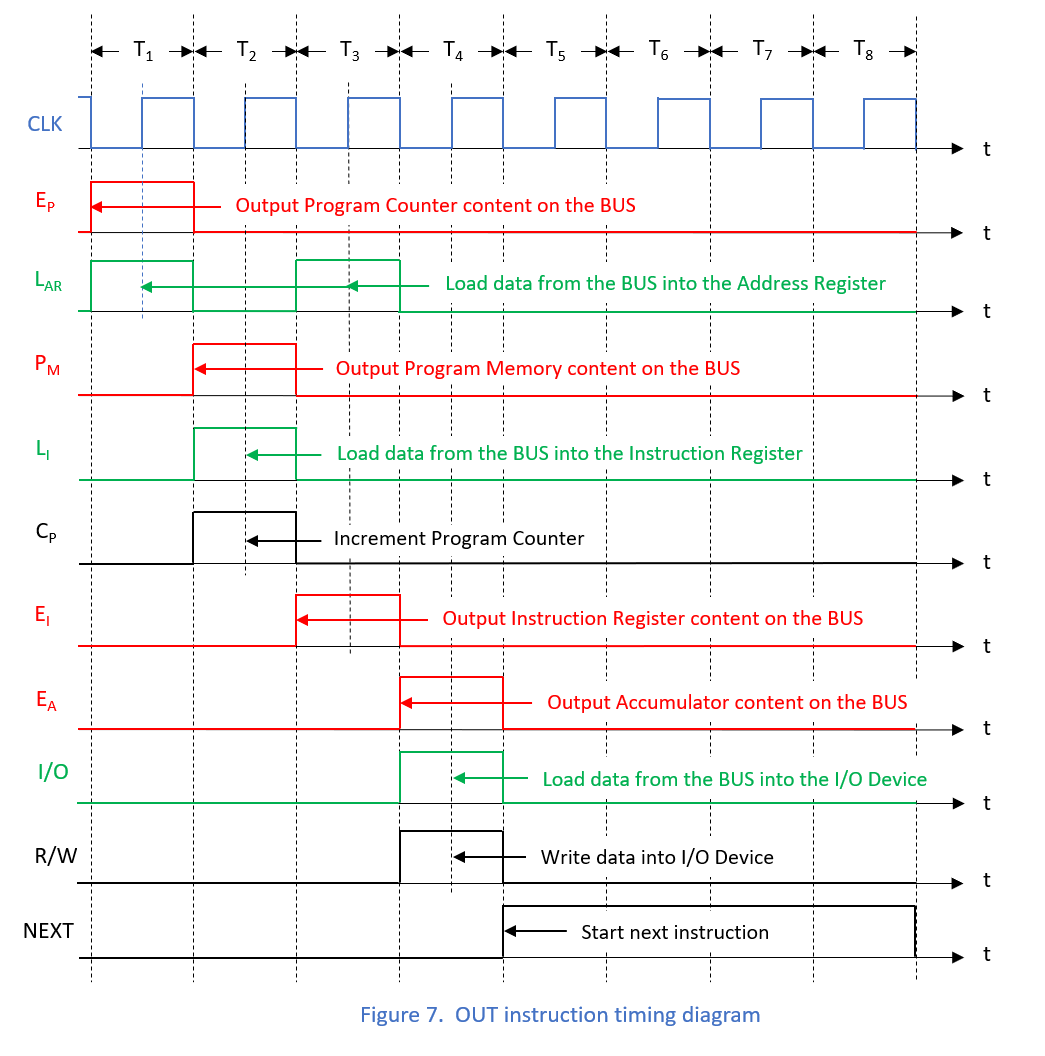
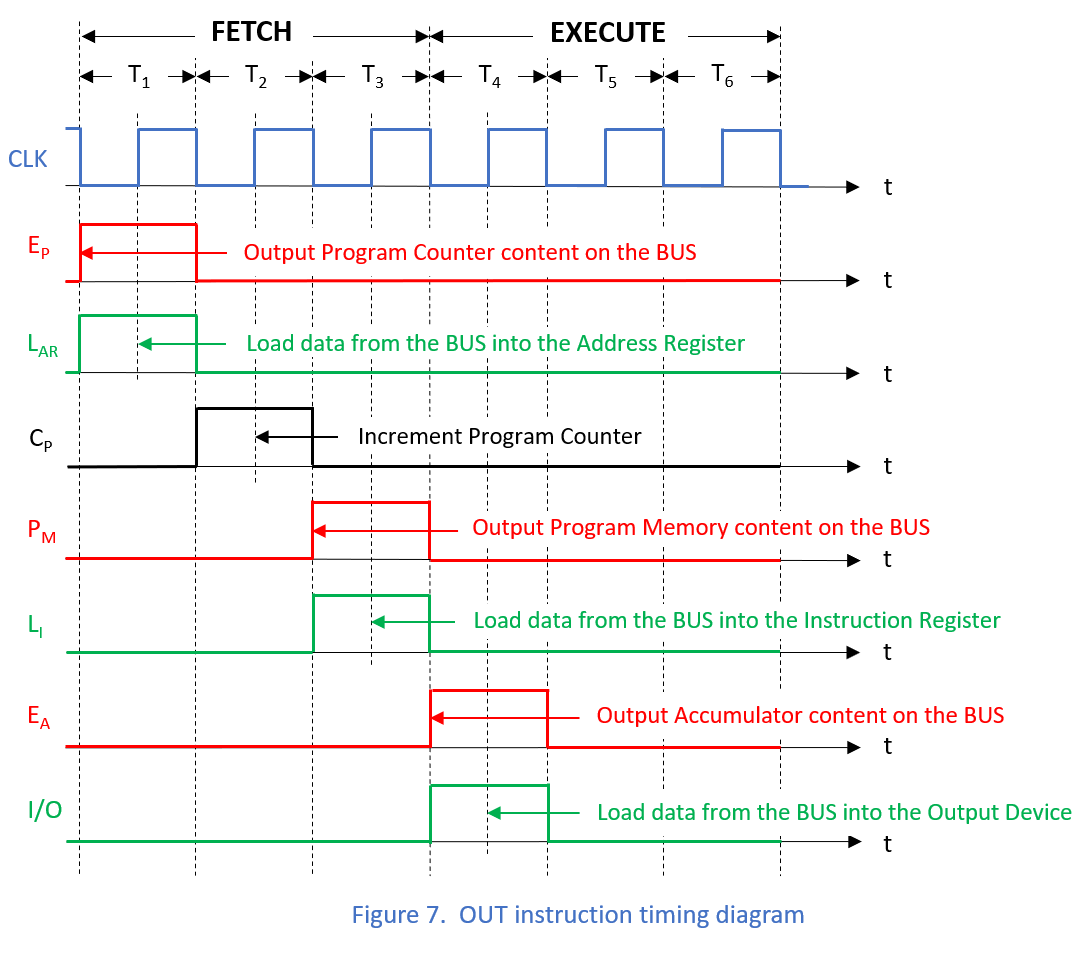
modified:   Pictures/Figure7.png modified:   README.md

diff --git a/README.md b/README.md
@@ -217,12 +217,12 @@ The Boolean equations for the signals that are active when the SUB instruction i
 
 *If we implement the Control Block using Combinational Logic we will use these equations.*
 
-## OUT instruction – Output data from the accumulator
+## OUT instruction – OUTput data from the accumulator
 Binary form:  1110 pppp \
 Operation:  PORT (p) ← A \
 Example: OUT 1h
 
-Transfers the numeric value stored in the Accumulator to Output Port p.
+Transfers the numeric value stored in the Accumulator to Output Port. This instruction has no parameter.
 
 The timing diagram for the OUT instruction is as follows:
 
